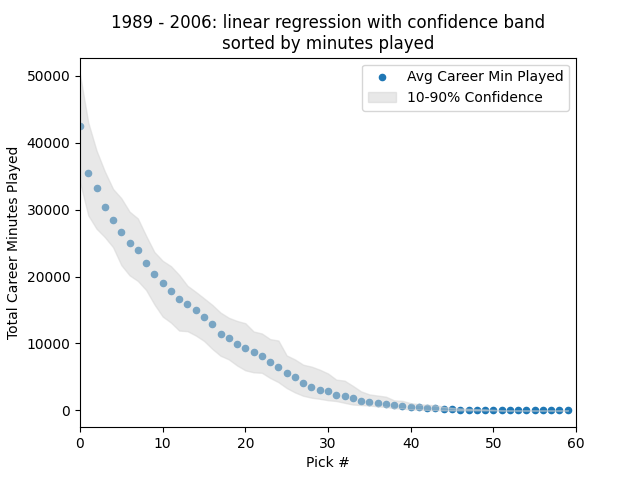
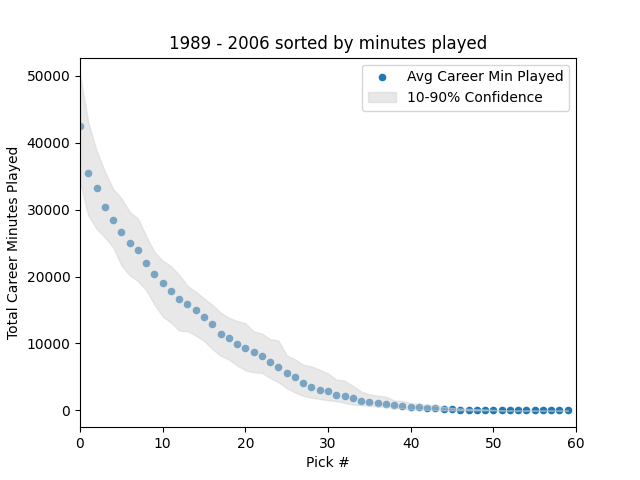
fix chart title builder and index plotting when grouping picks

Changed region(s): [[0.1562, 0.0312, 0.875, 0.125]]

diff --git a/nba-position-minutes.py b/nba-position-minutes.py
@@ -49,8 +49,8 @@ if raw_data_file_name:
   df.to_csv(r'raw_results/{0}.txt'.format(raw_data_file_name), header=None, index=None, sep=' ', mode='a')
 
 # build plot
-plt.scatter(df.index, df['TOTALS_MP_mean'], label='Avg Career Min Played', s=20)
-plt.fill_between(df.index, df['TOTALS_MP_q10'], df['TOTALS_MP_q90'], interpolate=True, color='lightgrey', alpha=0.5, label='10-90% Confidence')
+plt.scatter(df['index'], df['TOTALS_MP_mean'], label='Avg Career Min Played', s=20)
+plt.fill_between(df['index'], df['TOTALS_MP_q10'], df['TOTALS_MP_q90'], interpolate=True, color='lightgrey', alpha=0.5, label='10-90% Confidence')
 plt.legend()
 
 # regression
@@ -59,7 +59,7 @@ if regression_degree > 0:
   f = np.poly1d(d)
   df.insert(2, 'REGRESSION', f(df.index))
 
-  plt.plot(df.index, df['REGRESSION'], color='red', label="Regression")
+  plt.plot(df['index'], df['REGRESSION'], color='red', label="Regression")
 
 # set axis limits, labels
 ax = plt.gca()
@@ -68,10 +68,12 @@ ax.set_xlabel('Pick #')
 ax.set_ylabel('Total Career Minutes Played')
 
 # chart title
-regression_title = 'polynomial' if regression_degree > 1 else 'linear'
-title = '{0} - {1}: {2} regression with confidence band'.format(min_year, max_year, regression_title)
+title = '{0} - {1}'.format(min_year, max_year)
+if regression_degree > 0:
+  regression_title = 'polynomial' if regression_degree > 1 else 'linear'
+  title += ' w. {0} regression'.format(regression_title)
 if sort_by_minutes:
-  title += '\nsorted by minutes played'
+  title += ' sorted by minutes played'
 plt.title(title)
 
 plt.show()
